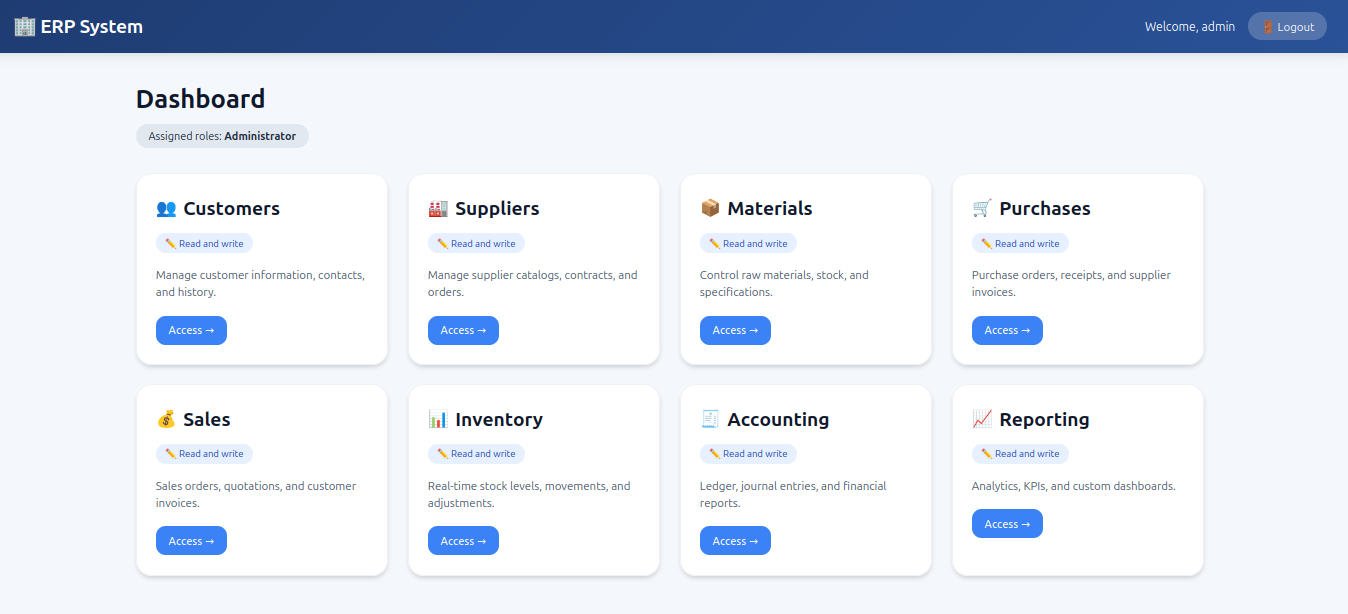
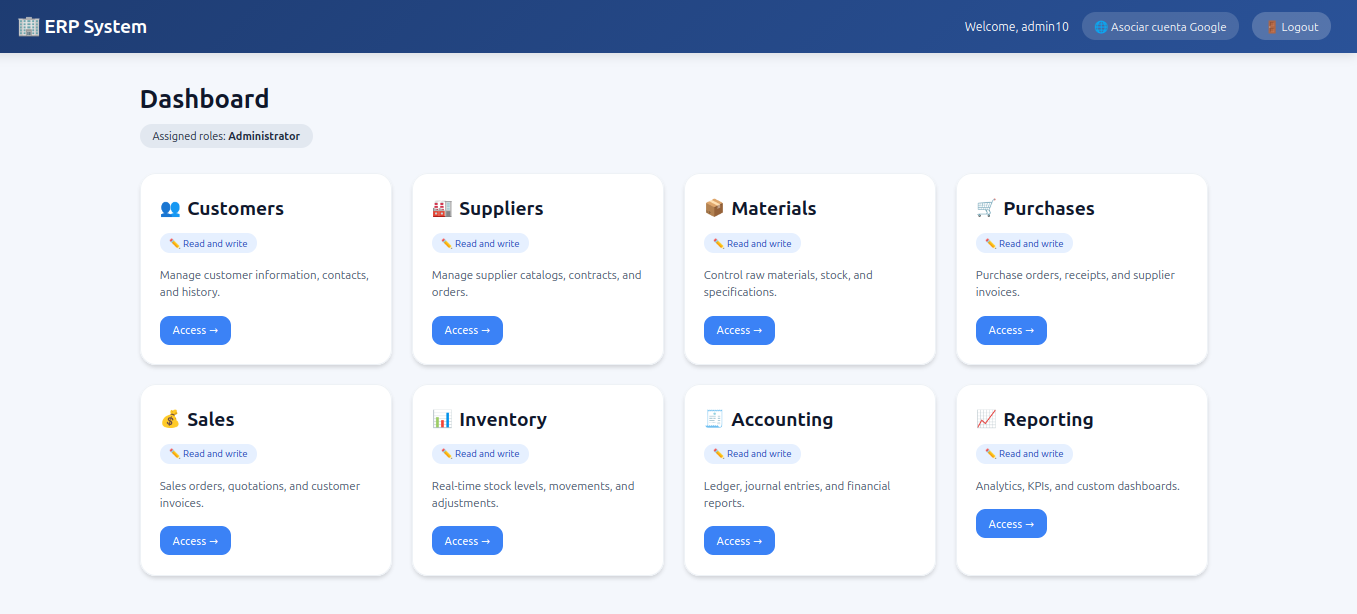
Agregando login social con Google

diff --git a/users/static/users/css/login.css b/users/static/users/css/login.css
@@ -114,3 +114,66 @@ footer {
     font-size: 0.75rem;
     color: #aaa;
 }
+
+/* Separador y botón de Google */
+.separator {
+    text-align: center;
+    margin: 20px 0 15px;
+    color: #aaa;
+    font-size: 0.85rem;
+    position: relative;
+}
+
+.separator::before,
+.separator::after {
+    content: "";
+    position: absolute;
+    top: 50%;
+    width: 40%;
+    height: 1px;
+    background: #e0e0e0;
+}
+
+.separator::before {
+    left: 0;
+}
+
+.separator::after {
+    right: 0;
+}
+
+.btn-google {
+    display: flex;
+    align-items: center;
+    justify-content: center;
+    gap: 10px;
+    width: 100%;
+    background: white;
+    border: 1.5px solid #ddd;
+    border-radius: 12px;
+    padding: 10px 15px;
+    font-size: 1rem;
+    font-weight: 500;
+    color: #444;
+    text-decoration: none;
+    transition: background 0.2s, border-color 0.2s;
+    margin-top: 10px;
+}
+
+.btn-google:hover {
+    background: #f8f9fa;
+    border-color: #bbb;
+}
+
+.google-icon {
+    display: inline-flex;
+    align-items: center;
+    justify-content: center;
+    width: 22px;
+    height: 22px;
+    background: #4285f4;
+    color: white;
+    border-radius: 50%;
+    font-weight: bold;
+    font-size: 14px;
+}

diff --git a/core/static/core/css/base.css b/core/static/core/css/base.css
@@ -42,6 +42,7 @@ body {
     display: flex;
     align-items: center;
     gap: 1rem;
+    flex-wrap: wrap;
 }
 
 .welcome-text {
@@ -59,6 +60,24 @@ body {
 }
 
 .btn-logout:hover {
+    background: rgba(255, 255, 255, 0.3);
+}
+
+/* Estilo para el botón "Asociar cuenta Google" */
+.btn-google-link {
+    background: rgba(255, 255, 255, 0.15);
+    color: white;
+    padding: 0.4rem 1rem;
+    border-radius: 30px;
+    text-decoration: none;
+    font-size: 0.9rem;
+    transition: background 0.2s;
+    display: inline-flex;
+    align-items: center;
+    gap: 0.3rem;
+}
+
+.btn-google-link:hover {
     background: rgba(255, 255, 255, 0.3);
 }
 
@@ -85,6 +104,9 @@ body {
         flex-direction: column;
         gap: 0.5rem;
         text-align: center;
+    }
+    .navbar-user {
+        justify-content: center;
     }
     .container {
         padding: 1rem;

diff --git a/users/templates/users/login.html b/users/templates/users/login.html
@@ -5,6 +5,7 @@
     <meta name="viewport" content="width=device-width, initial-scale=1.0">
     <title>ERP Login</title>
     {% load static %}
+    {% load socialaccount %}
     <link rel="stylesheet" href="{% static 'users/css/login.css' %}">
 </head>
 <body>
@@ -42,6 +43,14 @@
 
             <button type="submit">Login</button>
         </form>
+
+        <div class="google-login">
+            <div class="separator">or</div>
+            <a href="{% provider_login_url 'google' %}" class="btn-google">
+                <span class="google-icon">G</span> Continue with Google
+            </a>
+        </div>
+
         <footer>
             &copy; {% now "Y" %} ERP System - Secure Access
         </footer>

diff --git a/core/templates/core/base.html b/core/templates/core/base.html
@@ -5,6 +5,7 @@
     <meta name="viewport" content="width=device-width, initial-scale=1.0">
     <title>{% block title %}ERP System{% endblock %}</title>
     {% load static %}
+    {% load socialaccount %}
     <link rel="stylesheet" href="{% static 'core/css/base.css' %}">
     {% block extra_css %}{% endblock %}
 </head>
@@ -15,6 +16,7 @@
     <a href="{% url 'dashboard' %}" class="navbar-brand">🏢 ERP System</a>
     <div class="navbar-user">
         <span class="welcome-text">Welcome, {{ user.first_name|default:user.username }}</span>
+        <a href="{% provider_login_url 'google' process='connect' %}" class="btn-google-link">🌐 Asociar cuenta Google</a>
         <a href="{% url 'logout' %}" class="btn-logout">🚪 Logout</a>
     </div>
 </nav>

diff --git a/django_erp/settings.py b/django_erp/settings.py
@@ -28,6 +28,7 @@ INSTALLED_APPS = [
     'django.contrib.sessions',
     'django.contrib.messages',
     'django.contrib.staticfiles',
+    'django.contrib.sites',                     # Obligatorio para django-allauth
     'users',
     'core',
     'materials',
@@ -36,13 +37,53 @@ INSTALLED_APPS = [
     'inventory',
     'accounting',
     'purchases',
+    # django-allauth
+    'allauth',
+    'allauth.account',
+    'allauth.socialaccount',
+    'allauth.socialaccount.providers.google',
 ]
 
 # Autenticación personalizada
 AUTH_USER_MODEL = "users.User"
-LOGIN_URL = "/users/login"
-LOGIN_REDIRECT_URL = "/users/dashboard"
-LOGOUT_REDIRECT_URL = "/users/login"
+LOGIN_URL = "/login/"                     
+LOGIN_REDIRECT_URL = "/dashboard/"       
+LOGOUT_REDIRECT_URL = "/login/" 
+
+# Backends de autenticación (modelo por defecto + allauth)
+AUTHENTICATION_BACKENDS = [
+    'django.contrib.auth.backends.ModelBackend',
+    'allauth.account.auth_backends.AuthenticationBackend',
+]
+
+# django-allauth necesita un ID de sitio
+SITE_ID = 1
+
+# Configuración adicional de allauth 
+ACCOUNT_EMAIL_VERIFICATION = 'optional'
+ACCOUNT_LOGIN_METHODS = {'email'}
+ACCOUNT_SIGNUP_FIELDS = ['email*', 'password1*', 'password2*']    
+SOCIALACCOUNT_LOGIN_ON_GET = True
+
+# Configuración del proveedor de Google 
+SOCIALACCOUNT_PROVIDERS = {
+    'google': {
+        'SCOPE': ['profile', 'email'],
+        'AUTH_PARAMS': {'access_type': 'online'},
+        'OAUTH_PKCE_ENABLED': True,
+        'APPS': [
+            {
+                'client_id': os.environ.get('GOOGLE_CLIENT_ID'),
+                'secret': os.environ.get('GOOGLE_CLIENT_SECRET'),
+                'key': '',
+                'settings': {
+                    'scope': ['profile', 'email'],
+                    'auth_params': {'access_type': 'online'},
+                }
+            },
+        ],
+    }
+}
 
 MIDDLEWARE = [
     'django.middleware.security.SecurityMiddleware',
@@ -53,6 +94,7 @@ MIDDLEWARE = [
     'django.contrib.auth.middleware.AuthenticationMiddleware',
     'django.contrib.messages.middleware.MessageMiddleware',
     'django.middleware.clickjacking.XFrameOptionsMiddleware',
+    'allauth.account.middleware.AccountMiddleware',   
 ]
 
 ROOT_URLCONF = 'django_erp.urls'
@@ -64,7 +106,7 @@ TEMPLATES = [
         'APP_DIRS': True,
         'OPTIONS': {
             'context_processors': [
-                'django.template.context_processors.request',
+                'django.template.context_processors.request',  # Necesario para allauth
                 'django.contrib.auth.context_processors.auth',
                 'django.contrib.messages.context_processors.messages',
                 'core.context_processors.get_permissions',
@@ -102,8 +144,5 @@ USE_TZ = True
 STATIC_URL = '/static/'
 STATIC_ROOT = os.path.join(BASE_DIR, 'staticfiles')
 
-
 if not DEBUG:
     STATICFILES_STORAGE = 'whitenoise.storage.CompressedManifestStaticFilesStorage'
-
-

diff --git a/django_erp/urls.py b/django_erp/urls.py
@@ -25,4 +25,5 @@ urlpatterns = [
     path('suppliers/', include('suppliers.urls')), 
     path('customers/', include('customers.urls')), 
     path('purchases/', include('purchases.urls')), 
+    path('accounts/', include('allauth.urls')),
 ]